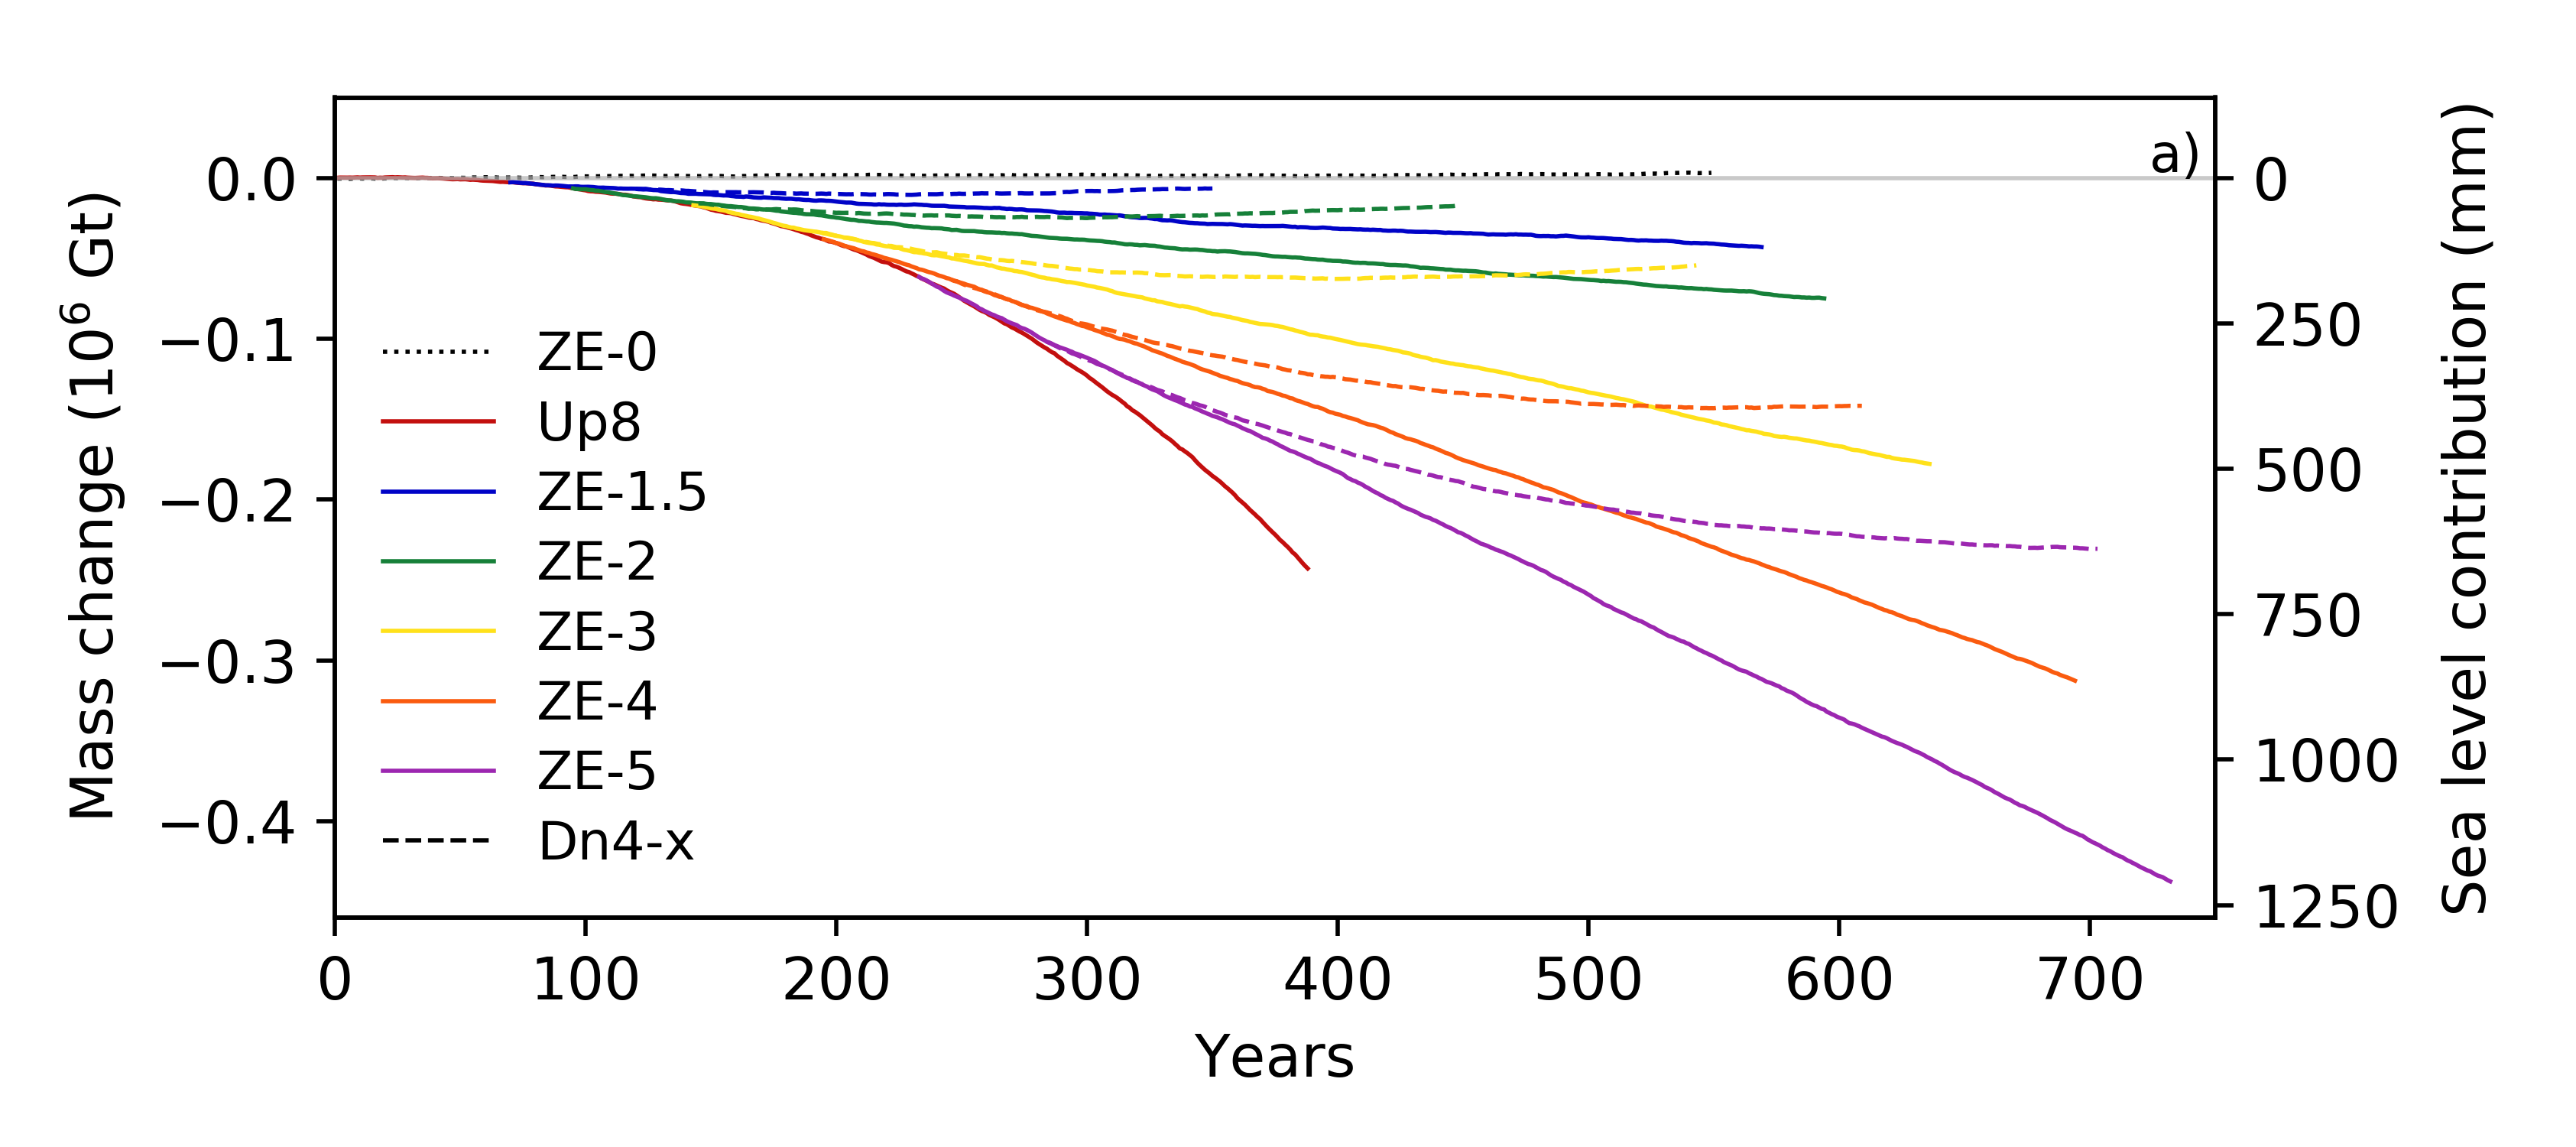
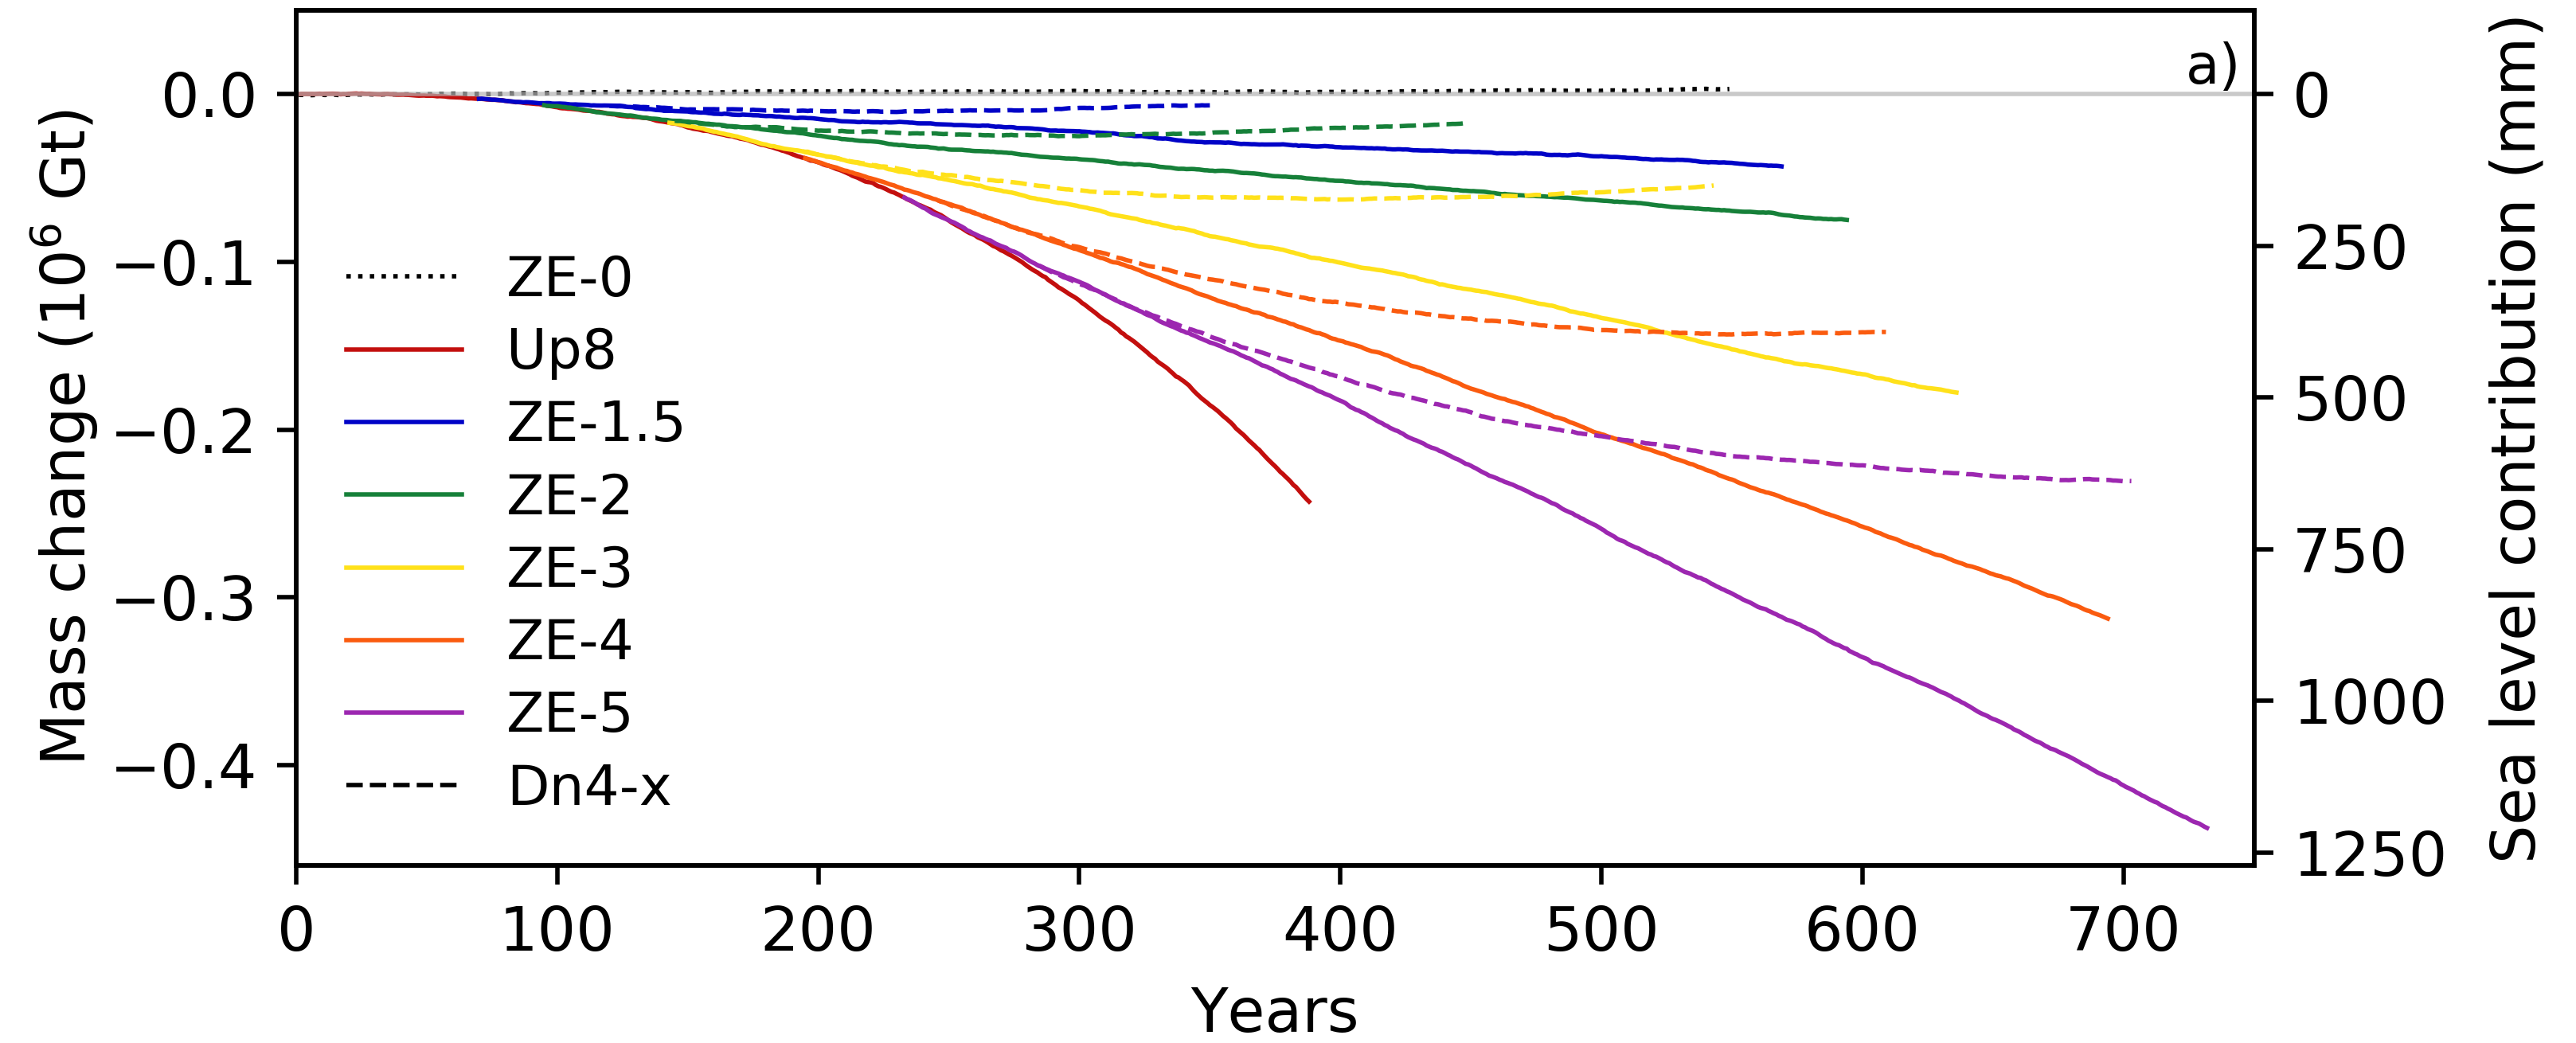
Add files via upload

diff --git a/docs/index.md b/docs/index.md
@@ -11,8 +11,8 @@ The **PROMOTE** project (Progressing Earth System Modelling for Tipping Point Ea
 
 <figure style="text-align: center;">
   <div style="display: flex; justify-content: center; gap: 20px;">
-    <img src="images/mld-y-change-2070-2099-1950-1979.png" alt="MLD_decline_CANARI" style="height: 250px;">
-    <img src="images/mass_change_GrIS_fig4_30yr_mean.png" alt="GrIS_mass_change" style="height: 280px;">
+    <img src="images/mld-y-change-2070-2099-1950-1979.png" alt="MLD_decline_CANARI" style="height: 380px;">
+    <img src="images/mass_change_GrIS_fig4_30yr_mean.png" alt="GrIS_mass_change" style="height: 380px;">
   </div>
   <figcaption style="text-align: left;">
     <span style="font-weight: 550;">Left:</span> Average decline in the mixed layer depth (meters) in the Labrador Sea between 1950-1979 and 2070-2099 in the 40 members of the CANARI Large Ensemble (Source: Valeria Mascolo). <span style="font-weight: 550;">Right:</span> Evolution of Greenland ice sheet mass with time (10<sup>6</supGt and mm sea level equivalent) in a TerraFirma Overshoot ensemble (Smith et al., 2026).